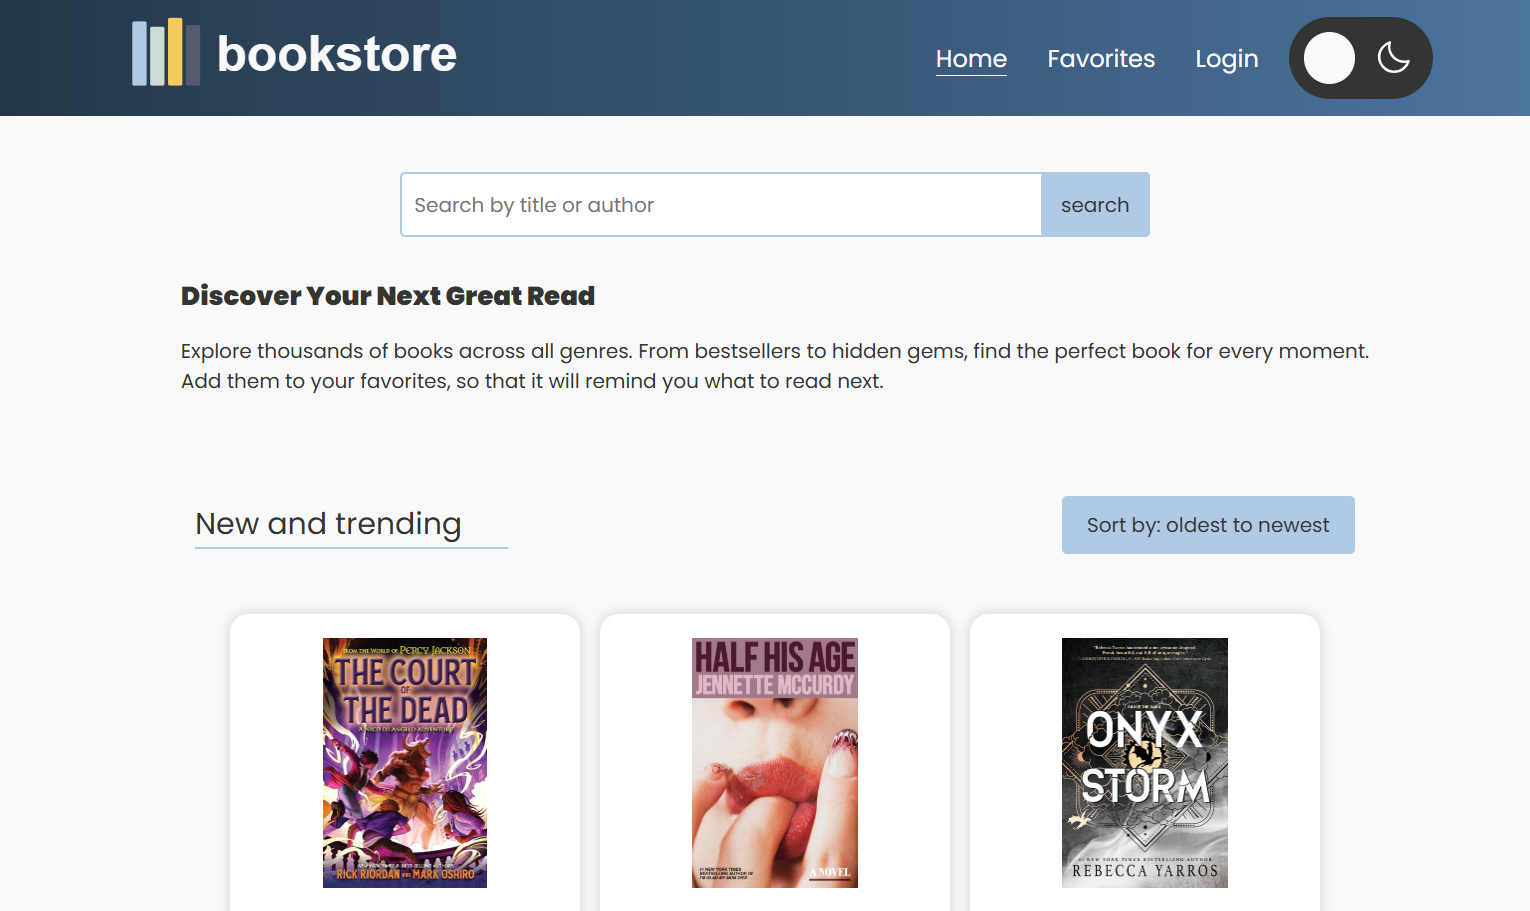
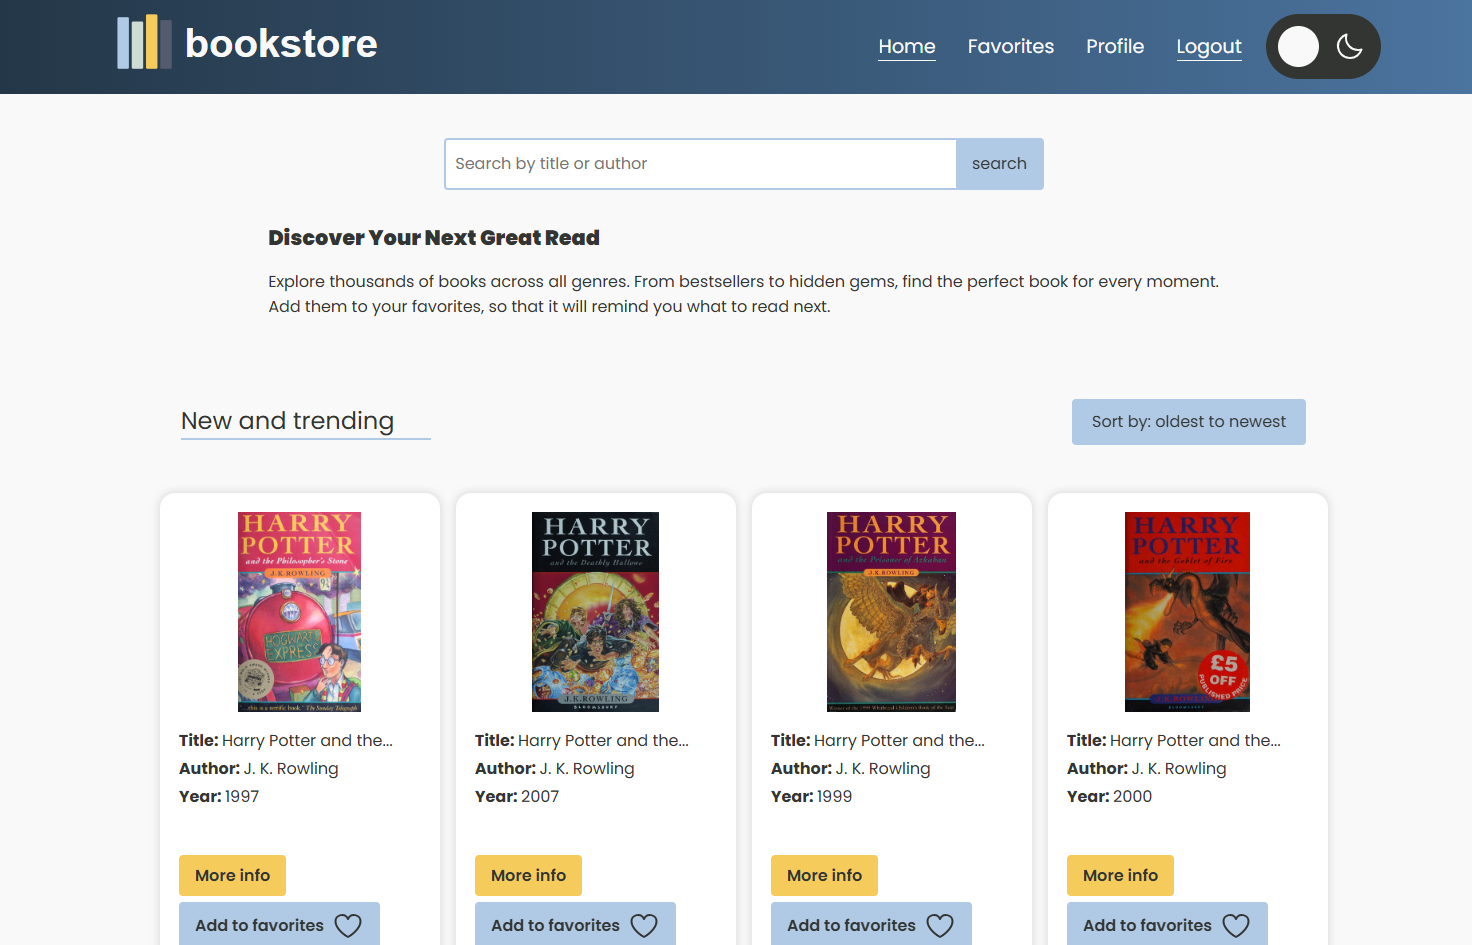
authcontext bijgewerkt. login en logout werkt. isTokenValid.js toegevoegd

Changed region(s): [[0.0938, 0.5225, 0.9062, 1.0], [0.0, 0.0, 1.0, 0.3381], [0.125, 0.3688, 0.9062, 0.4918]]

diff --git a/src/pages/signIn/SignIn.jsx b/src/pages/signIn/SignIn.jsx
@@ -2,7 +2,6 @@ import './SignIn.css';
 import {useForm} from 'react-hook-form';
 import {useState, useContext} from "react";
 import Button from "../../components/button/Button.jsx";
-import {At} from "phosphor-react";
 import InputField
     from "../../components/inputField/InputField.jsx";
 import {AuthContext} from "../../context/AuthContext.jsx";
@@ -11,6 +10,7 @@ import {Link} from "react-router-dom";
 
 function SignIn() {
     const { login } = useContext(AuthContext);
+    const [loginError, setLoginError] = useState("");
 
     const {
         register,
@@ -22,18 +22,19 @@ function SignIn() {
     async function handleFormSubmit(data) {
 
         try {
-            const response = await axios.post(``,{
+            const response = await axios.post(`https://novi-backend-api-wgsgz.ondigitalocean.app/api/login`,{
                 email:data.email,
                 password: data.password,
             },{
                 headers: {
-                    'novi-education-project-id': '',
+                    'novi-education-project-id': 'fc3b1d4e-24cf-4767-8ccb-fce51b54f7f8',
                 }
             })
             console.log(response);
             login(response.data);
         } catch (e) {
             console.error(e);
+            setLoginError("Email or password is incorrect");
         }
     }
 
@@ -61,7 +62,7 @@ function SignIn() {
                         <label
                             htmlFor="password">Password</label>
                         <InputField
-                            type="text"
+                            type="password"
                             id="password-field"
                             {...register("password", {
                                 required: "This field is required",
@@ -75,6 +76,7 @@ function SignIn() {
                         >
                             continue
                         </Button>
+                            <p className="login-error">{loginError}</p>
                         </section>
                         <span className="divider"></span>
                         <section className="signup-section">

diff --git a/src/pages/signUp/SignUp.jsx b/src/pages/signUp/SignUp.jsx
@@ -4,9 +4,10 @@ import axios from "axios";
 import InputField
     from "../../components/inputField/InputField.jsx";
 import Button from "../../components/button/Button.jsx";
-import {Link} from "react-router-dom";
+import { useNavigate } from "react-router-dom";
 
 function SignUp() {
+    const navigate = useNavigate();
 
     const {
         register,
@@ -18,16 +19,17 @@ function SignUp() {
     async function handleFormSubmit(data) {
 
         try {
-            const response = await axios.post(``,{
+            const response = await axios.post(`https://novi-backend-api-wgsgz.ondigitalocean.app/api/users`,{
                 email:data.email,
                 password: data.password,
                 roles:['user'],
             },{
                 headers: {
-                    'novi-education-project-id': '',
+                    'novi-education-project-id': 'fc3b1d4e-24cf-4767-8ccb-fce51b54f7f8',
                 }
             })
             console.log(response);
+            navigate("/signin");
         } catch (e) {
             console.error(e);
         }
@@ -53,7 +55,7 @@ function SignUp() {
                 <label
                     htmlFor="password">Password</label>
                 <InputField
-                    type="text"
+                    type="password"
                     id="password-field"
                     {...register("password", {
                         required: "This field is required",
@@ -61,15 +63,14 @@ function SignUp() {
                 />
                 {errors.password &&
                     <p className="message">{errors.password.message}</p>}
-                <Link to="/signin">
                 <Button
                     className="secondary-button"
                     type="submit"
                 >
                     continue
                 </Button>
-                </Link>
             </form>
+            <p>Once your account has been created, you’ll be redirected to the login page.</p>
         </>
     );
 }

diff --git a/src/pages/homePage/Home.jsx b/src/pages/homePage/Home.jsx
@@ -181,12 +181,15 @@ function Home() {
             </section>
             <div ref={topRef}></div>
             <div className="heading-bookresults">
-                <p>New and trending</p>
-                <Button
-                    className="secondary-button"
-                    type="submit"
-                    onClick={toggleSort}
-                >Sort by: {sortDirection === "oldest" ? "oldest to newest" : "newest to oldest"}</Button>
+                {!query && <p>New and trending</p>}
+                {totalResults <= 1 ? null : <div className="sort-wrapper">
+                    <Button
+                        className="secondary-button"
+                        type="submit"
+                        onClick={toggleSort}
+                    >Sort
+                        by: {sortDirection === "oldest" ? "oldest to newest" : "newest to oldest"}</Button>
+                </div>}
             </div>
             <section
                 className="outer-container-articles">
@@ -236,7 +239,7 @@ function Home() {
                     );
                 })}
             </section>
-            {query && (
+            {query && totalResults <= 1 ? null : (
                 <div className="pagination">
                 <span
                     className={`prev ${!hasPrevPage ? "disabled" : ""}`}

diff --git a/src/components/navigation/Navigation.jsx b/src/components/navigation/Navigation.jsx
@@ -14,7 +14,7 @@ function Navigation() {
     const isActive = ({isActive}) => isActive ? 'active-menu-link' : 'default-menu-link'
     const { setQuery } = useContext(SearchContext);
 
-    const {isAuth, logout, user} = useContext(AuthContext);
+    const {isAuth, logout} = useContext(AuthContext);
     const navigate = useNavigate();
 
     useEffect(() => {
@@ -65,7 +65,9 @@ function Navigation() {
                                     </li>
                                     <li><NavLink
                                         className={isActive}
-                                        to="/">Logout</NavLink>
+                                        onClick={logout}
+                                        to="/"
+                                    >Logout</NavLink>
                                     </li>
                                 </>
                                 :

diff --git a/src/pages/favoritesPage/Favorites.jsx b/src/pages/favoritesPage/Favorites.jsx
@@ -7,14 +7,12 @@ import React, {useContext, useEffect, useState} from 'react';
 import axios from "axios";
 
 function Favorites() {
-    const { token } = useContext(AuthContext);
+    const { token, user } = useContext(AuthContext);
     const [favoriteIds, setFavoriteIds] = useState([]);
     const [books, setBooks] = useState([]);
     const [loading, setLoading] = useState(false);
     const [error, setError] = useState(false);
     const [errorMessage, setErrorMessage] = useState("");
-
-    const {user} = useContext(AuthContext);
 
     useEffect(() => {
         if(!token) return;
@@ -67,7 +65,7 @@ function Favorites() {
 
     }, [favoriteIds]);
 
-    if (!token) return <p className="message-login">You have to be logged in to see the favorites</p>;
+    if (!user) return <p className="message-login">You have to be logged in to see the favorites</p>;
 
     return (
         <>

diff --git a/src/pages/signIn/SignIn.css b/src/pages/signIn/SignIn.css
@@ -69,6 +69,10 @@ input {
     padding-top: 1rem;
 }
 
+.login-error {
+    font-weight: bold;
+}
+
 /* ── 3. Media Queries ─────────────────────────────────────────── */
 
 @media screen and (min-width: 768px) {
@@ -92,7 +96,7 @@ input {
         display: flex;
         justify-content: space-evenly;
         width: 60vw;
-        margin: 10rem auto;
+        margin: 10rem 0 0 auto;
     }
 
     .divider {

diff --git a/src/context/AuthContext.jsx b/src/context/AuthContext.jsx
@@ -1,13 +1,14 @@
 import {createContext, useState, useEffect} from "react";
 import { useNavigate } from 'react-router-dom';
 import {jwtDecode} from 'jwt-decode';
+import isTokenValid from '../helpers/isTokenValid';
 
 export const AuthContext = createContext({});
 
 function AuthContextProvider({ children }) {
     const [auth, toggleAuth] = useState({
         isAuth: false,
-        user: '',
+        user: null,
         status: 'pending',
     });
 

diff --git a/src/pages/homePage/Home.css b/src/pages/homePage/Home.css
@@ -114,7 +114,7 @@
 .heading-bookresults {
     display: flex;
     flex-direction: column;
-    justify-content: center;
+    justify-content: space-between;
     align-items: center;
     gap: 1rem;
 
@@ -178,6 +178,9 @@
         margin: 0 2rem 2rem 2rem;
         justify-content: space-between;
     }
+
+    .sort-wrapper { margin-left: auto; }
+
     .heading-bookresults p {
         width: 250px;
         font-size: 1.5rem;

diff --git a/src/pages/signUp/SignUp.css b/src/pages/signUp/SignUp.css
@@ -27,7 +27,7 @@
 /* ── 3. Media Queries ─────────────────────────────────────────── */
 @media screen and (min-width: 768px) {
     .outer-container-register{
-        margin: 10rem auto;
+        margin: 10rem 0 0 auto;
         /*border: 2px dashed purple;*/
         min-width: 500px;
     }

diff --git a/src/helpers/isTokenValid.js b/src/helpers/isTokenValid.js
@@ -1,0 +1,8 @@
+function isTokenValid(decodedToken) {
+
+    if (!decodedToken || !decodedToken.exp) return false;
+    const now = Date.now() / 1000;
+    return decodedToken.exp > now;
+}
+
+export default isTokenValid;
